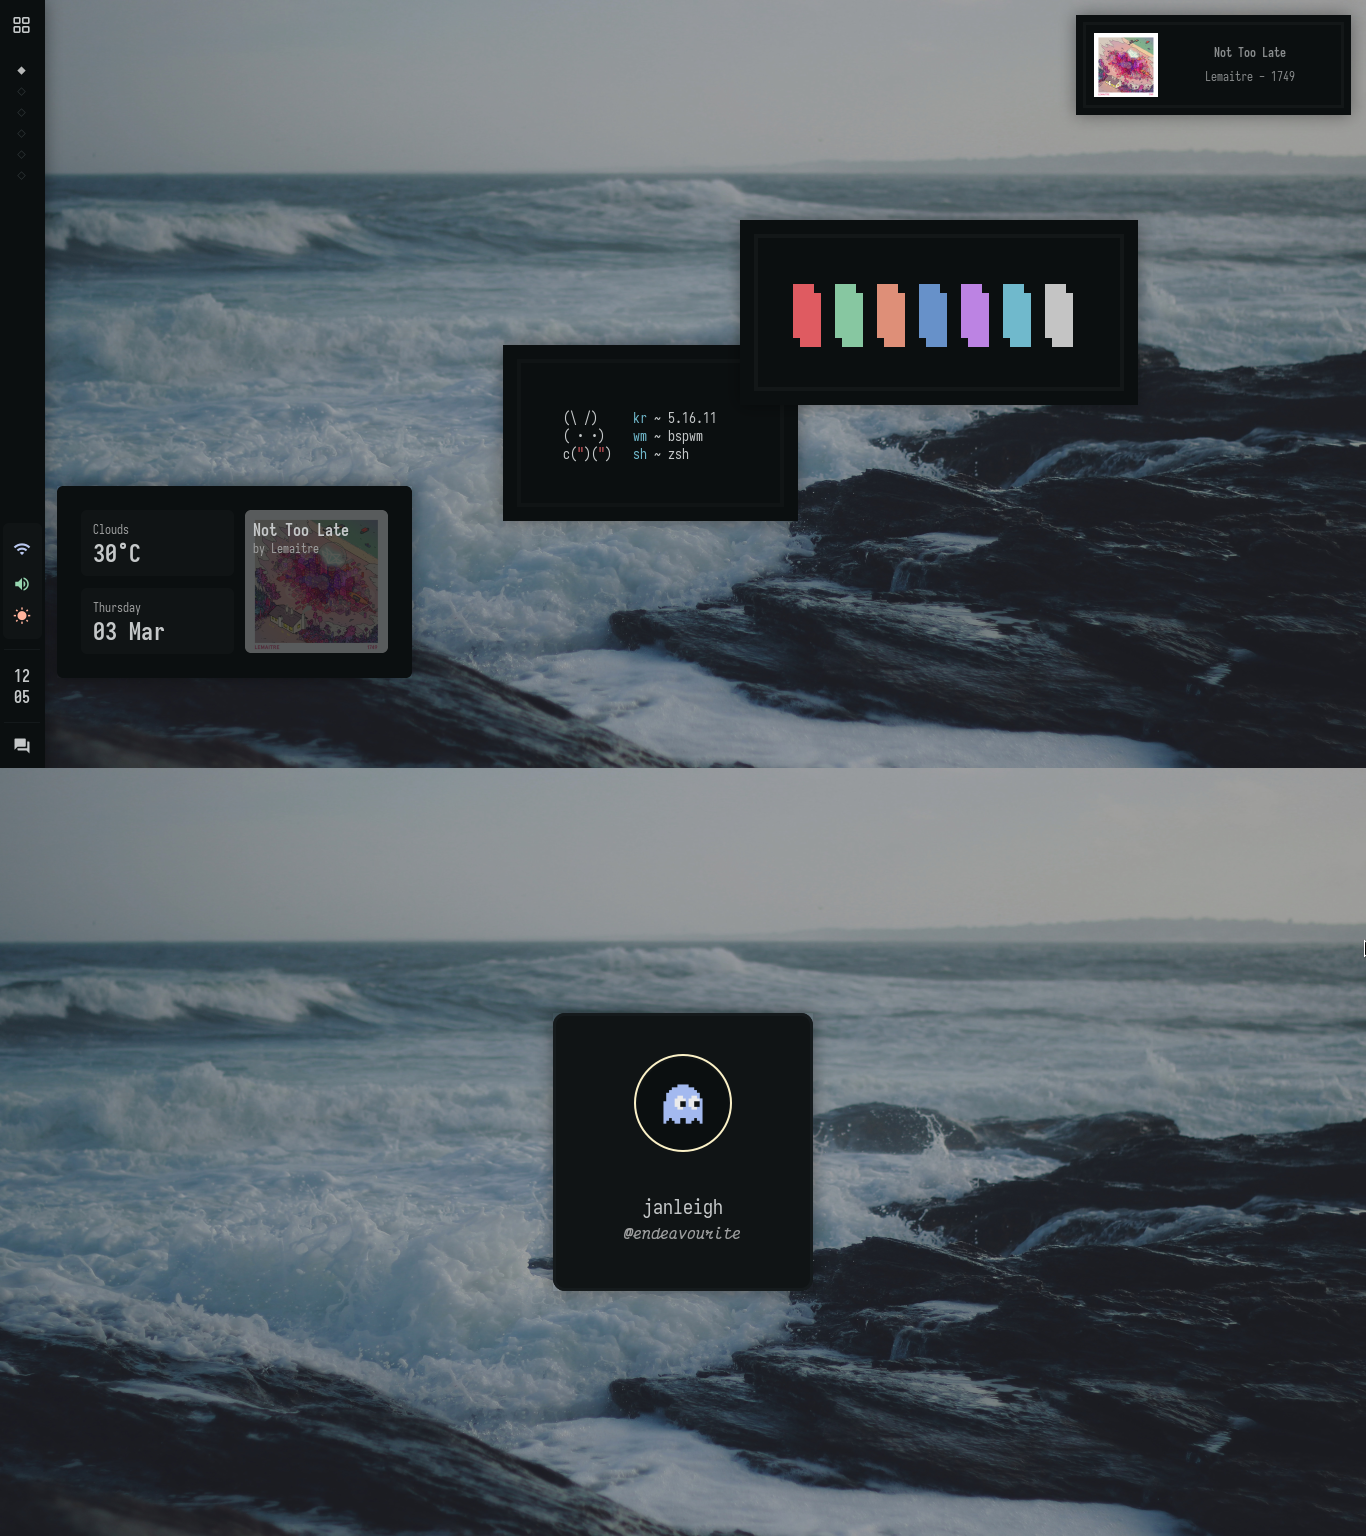
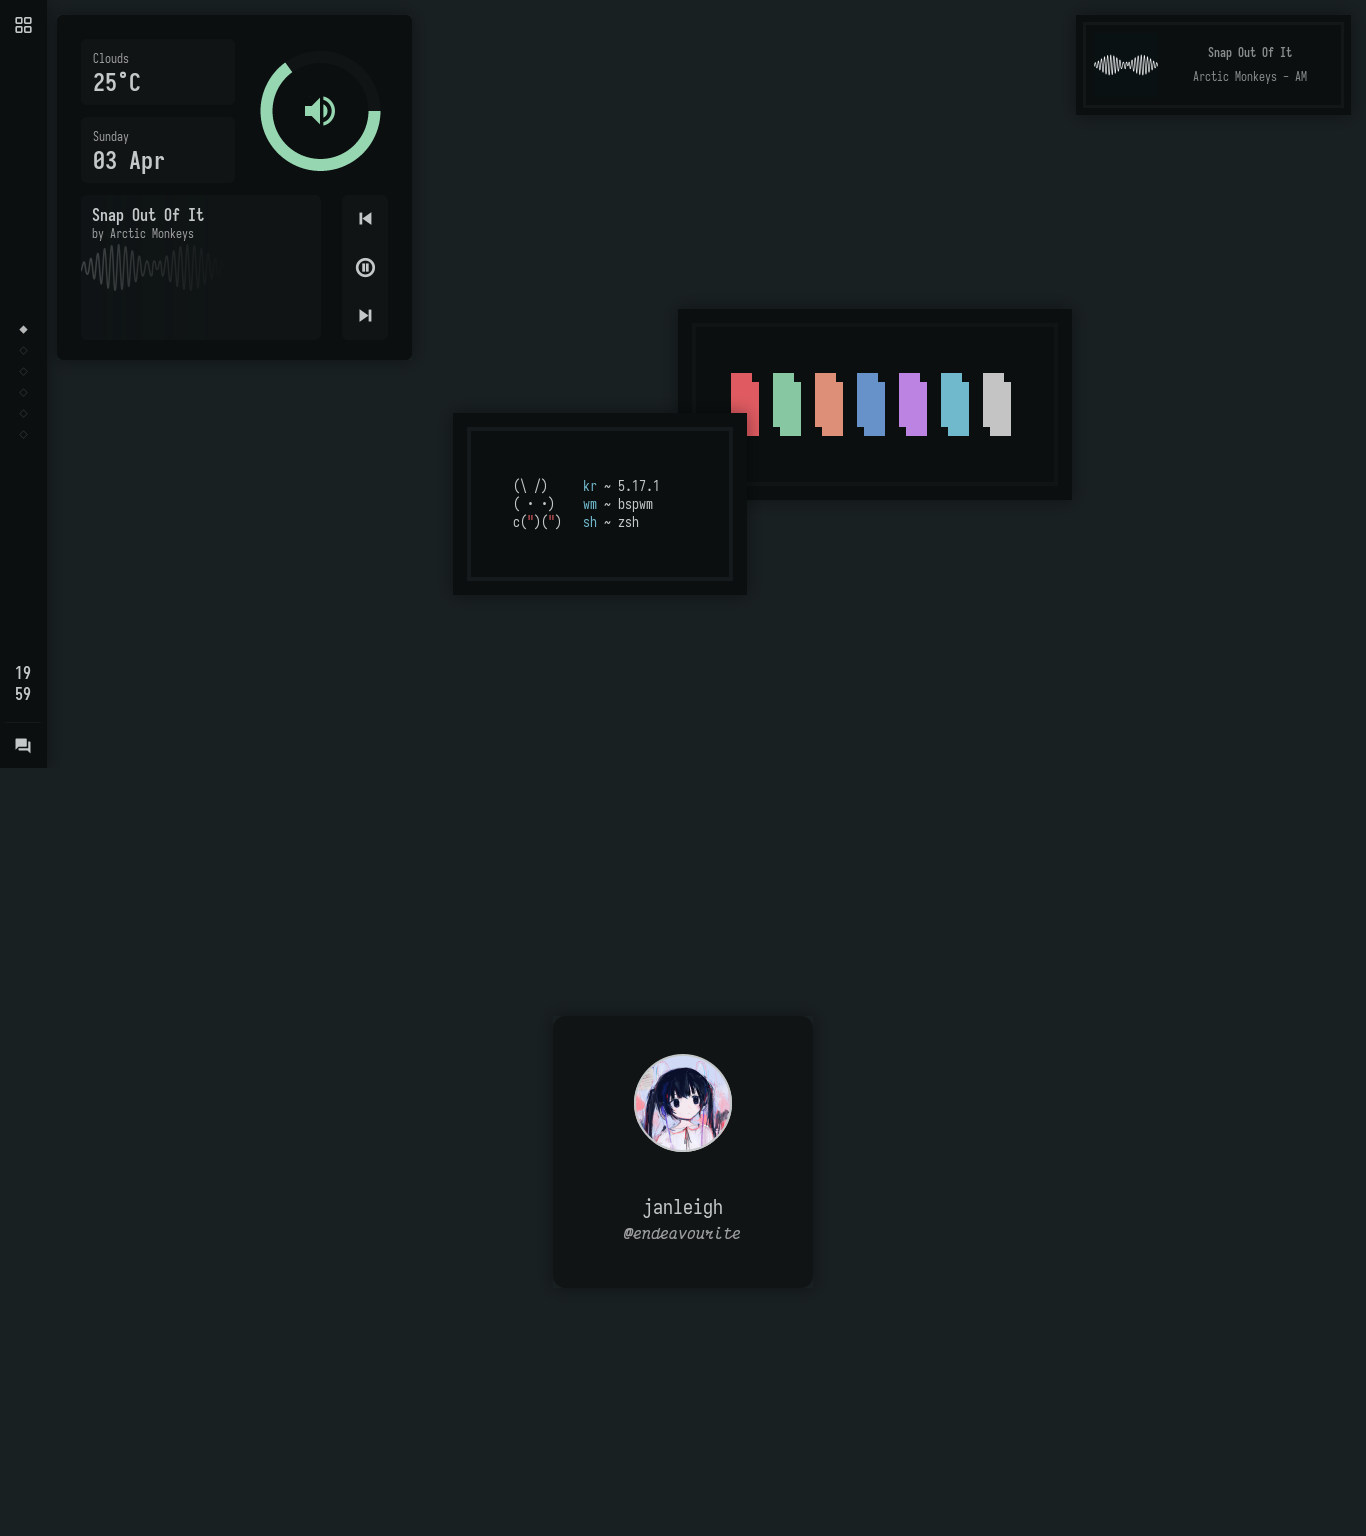
feat: new rice

diff --git a/cfg/eww/src/scss/bar/widgets/_systray.scss b/cfg/eww/src/scss/bar/widgets/_systray.scss
@@ -4,7 +4,6 @@
     padding: 2em;
 
     .sys-tray-box-left {
-        margin-right: 1px;
         .date {
             background-color: $bg;
             border-radius: 6px;
@@ -26,7 +25,6 @@
         .weather {
             background-color: $bg;
             border-radius: 6px;
-        
             .weather-desc {
                 color: $fgDim;
                 margin-left: 1em;
@@ -44,6 +42,23 @@
                 margin-top: 0.2em;
                 margin-left: -8px;
                 margin-bottom: 0.5em;
+            }
+        }
+    }
+
+    .sys-tray-box-right {
+        margin: 1em 0em 0em 1.5em;
+
+        .volume {
+            .volume-progress {
+                background-color: $bg;
+                color: $green;
+
+                .volume-icon {
+                    margin: 1em;
+                    font-size: 40px;
+                    color: $green;
+                }
             }
         }
     }

diff --git a/cfg/eww/src/scss/bar/widgets/_musicplayer.scss b/cfg/eww/src/scss/bar/widgets/_musicplayer.scss
@@ -3,11 +3,12 @@
 
     .song-art {
         background-color: $bg;
-        background-size: auto 100%;
-        // background-repeat: no-repeat;
+        background-size: 60% 100%;
+        background-repeat: no-repeat;
         border-radius: 6px;
-    
-        margin: 1px -6px 1px 0;
+
+        min-width: 20em;
+        margin-right: 15px;
 
         .music-info {
             all: unset;
@@ -15,8 +16,8 @@
             border-radius: 6px;
 
             margin-top: 10px;
-            margin-left: -5.4rem;
-        
+            margin-left: -9.1rem;
+
             .title {
                 font-size: 16px;
                 font-weight: bolder;
@@ -28,9 +29,10 @@
     }
     
     .song-controls {
+        background-color: $bg;
+        padding: 0em 1em;
+        margin-left: 6px;
         border-radius: 6px;
-
-        margin: 1px 90px -1px -90px;
 
         button {
             font-family: "Material Icons";

diff --git a/cfg/eww/eww.scss b/cfg/eww/eww.scss
@@ -2,16 +2,14 @@
 @import "src/scss/overrides";
 
 @import "src/scss/bar/index.scss";
-@import "src/scss/bar/widgets/brightness";
 @import "src/scss/bar/widgets/calendar";
-@import "src/scss/bar/widgets/controlpanel";
 @import "src/scss/bar/widgets/launcher";
 @import "src/scss/bar/widgets/musicplayer";
-@import "src/scss/bar/widgets/network";
 @import "src/scss/bar/widgets/powermenu";
 @import "src/scss/bar/widgets/systray";
 @import "src/scss/bar/widgets/time";
-@import "src/scss/bar/widgets/volume";
 @import "src/scss/bar/widgets/workspaces";
 
 @import "src/scss/lock/index.scss";
+
+@import "src/scss/config";

diff --git a/cfg/eww/src/scss/lock/index.scss b/cfg/eww/src/scss/lock/index.scss
@@ -1,14 +1,14 @@
 .lock-screen {
     background-color: $bg;
     border-radius: 12px;
-    border: $bgSecondaryAlt solid 3px;
+    // border: $bgSecondaryAlt solid 3px;
 
     .lock-pfp {
         background-image: url("./assets/avatar.png");
         background-size: 100%;
         border-radius: 100%;
 
-        margin: 3.5rem 6.8rem 0rem;
+        margin: 3.3rem 6.8rem 0rem;
     }
 
     .lock-text {

diff --git a/cfg/eww/src/scss/bar/widgets/_time.scss b/cfg/eww/src/scss/bar/widgets/_time.scss
@@ -1,9 +1,8 @@
 .time {
     font-weight: bold;
     font-size: 1.3em;
-    // background-color: #0b0f10;
     color: $foreground;
     border-radius: 6px;
-    margin: .1em .3em .1em .2em;
-    padding: .5em .4em .4em .4em;
+    margin: .1em .2em;
+    padding: .6em .2em;
 }

diff --git a/cfg/eww/src/scss/bar/widgets/_launcher.scss b/cfg/eww/src/scss/bar/widgets/_launcher.scss
@@ -1,6 +1,6 @@
 .launcher {
     font-family: "icomoon";
-    margin: 1.25em 1em 0.75em 13px;
+    margin: 1.25em 1.2em 0.75em;
 
     button {
         // color: #1793d0;

diff --git a/cfg/eww/src/scss/_config.scss b/cfg/eww/src/scss/_config.scss
@@ -1,0 +1,3 @@
+.line {
+    margin-left: -1px;
+}

diff --git a/README.md b/README.md
@@ -158,7 +158,6 @@
 
    - **Inspiration**
       - [owl4ce](https://github.com/owl4ce) for the README style.
-      - [ner0z](https://github.com/ner0z/) for the bar inspiration.
 
    - **Contributors**
       - [flyingcakes85](https://github.com/flyingcakes85) for the **OLD** 1920x1080 eww config. 
